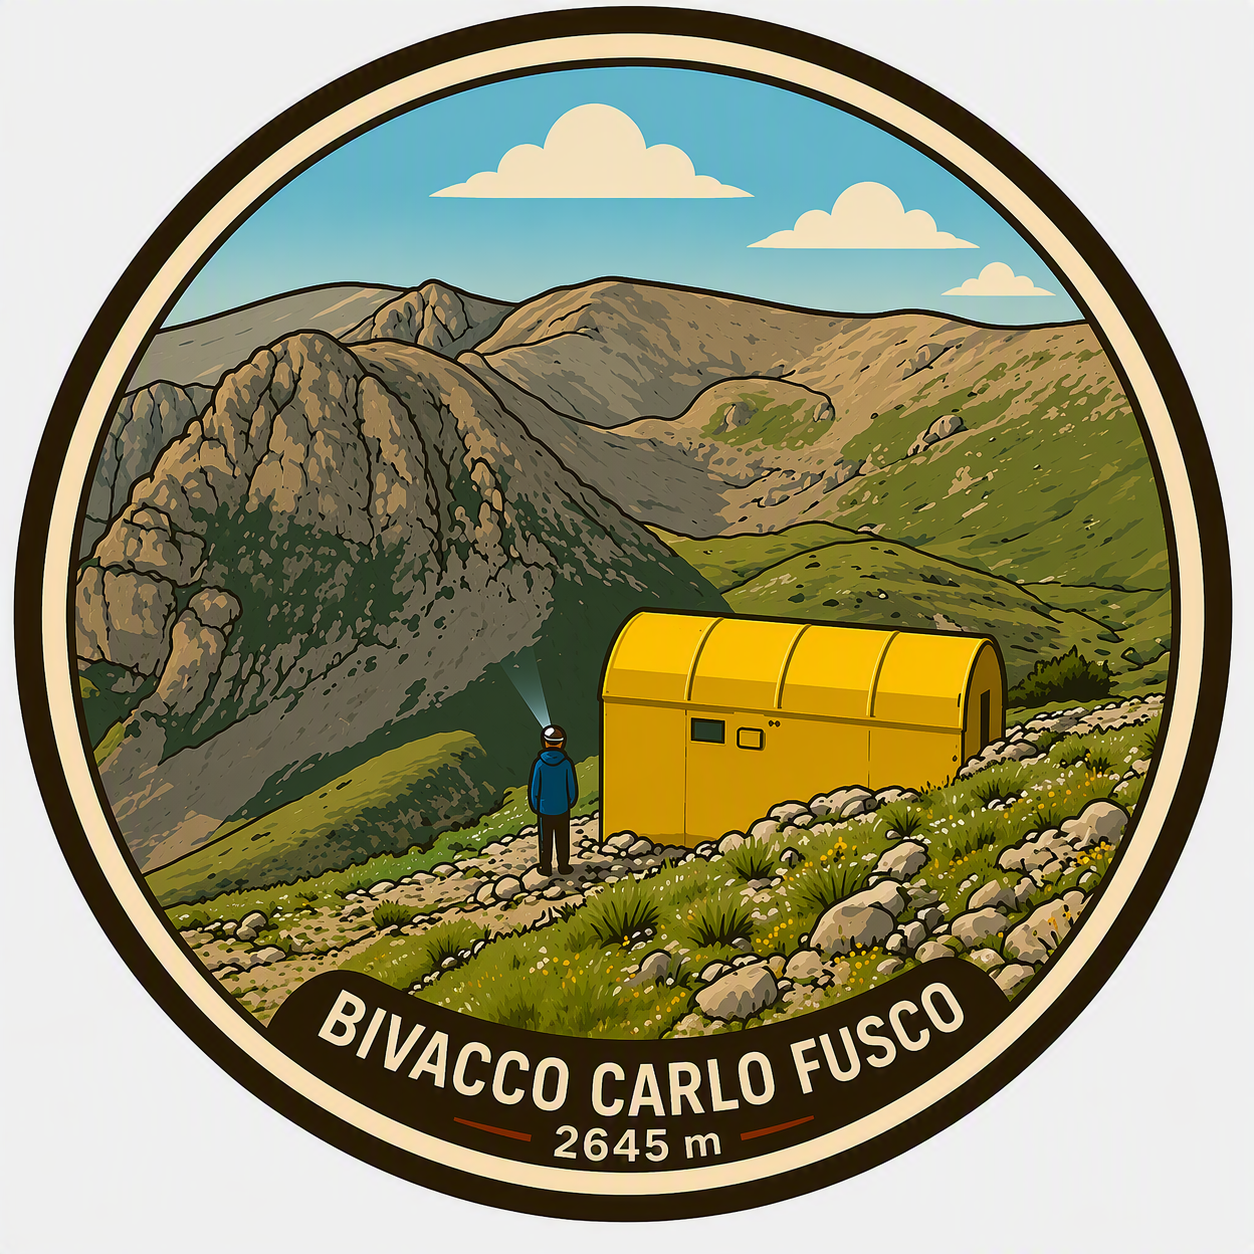
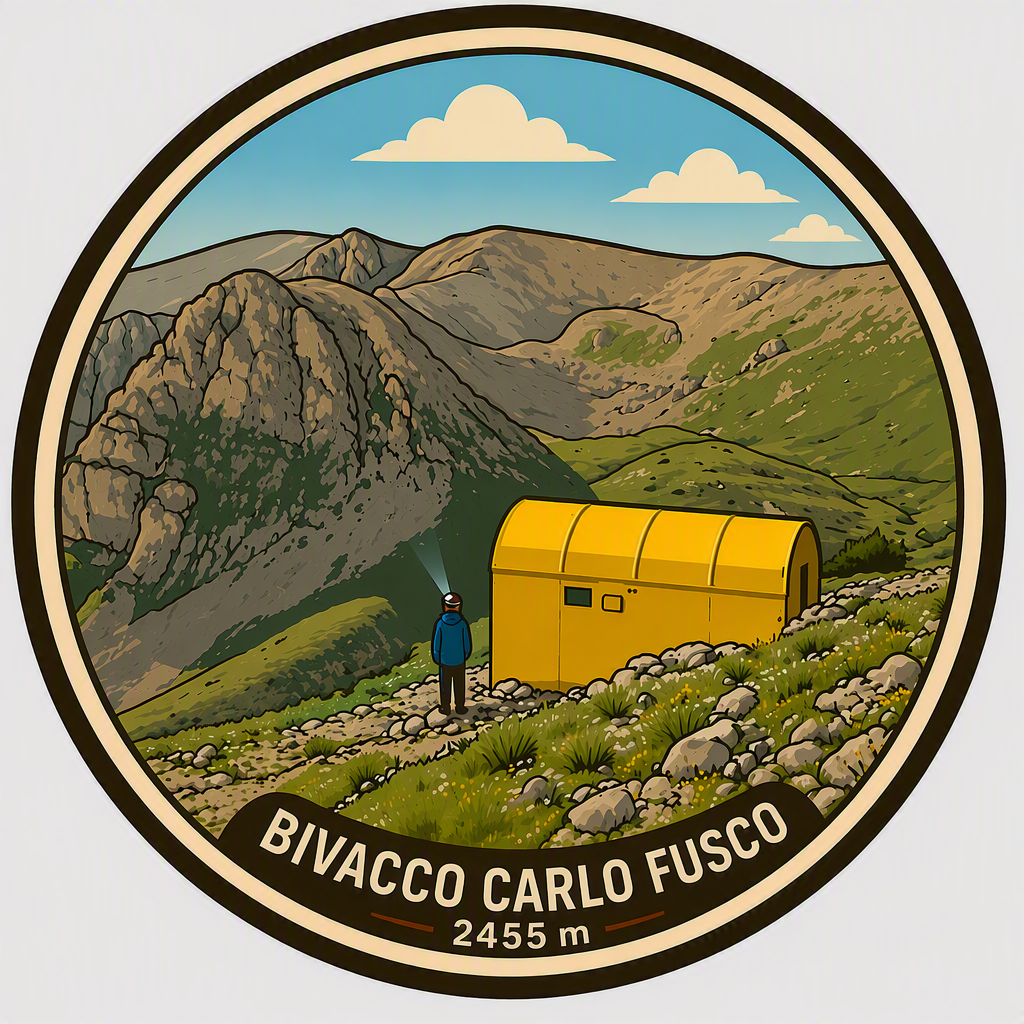
Icona Bivacco Carlo Fusco (2455 m) + coordinate Franchetti/Zilioli rifinite
Icona: il file disegnava 2645 m contro i 2455 m del catalogo (debito tecnico dal punto 104). Denis ha fornito l'icona nuova a 2455 m, coincide col catalogo; PNG verificato (firma/IEND/1024x1024) e sostituito. Debito chiuso, catalogo non toccato.

Coordinate (badge-points.js), su lettura DMS di Denis, quota invariata:
- Rifugio Franchetti 42.47711/13.56522 -> 42.47706/13.56508 (quota 2433)
- Rifugio Zilioli    42.81740/13.26850 -> 42.81731/13.26839 (quota 2250)
Spostamento ~13 m ciascuna, dentro i 150 m della soglia timbro. Erano le due
voci 'da verificare a mano' del vault. node -c OK, nessun test in prove/ le tocca.

Claude-Session: https://claude.ai/code/session_013CLoUwoE771GSXkUnPS4gu

diff --git a/public/js/badge-points.js b/public/js/badge-points.js
@@ -109,8 +109,14 @@
         // NON "correggerla" di nuovo a 2253 ricontrollando OSM: e' gia' successo il contrario
         // una volta in questo file (vedi nota in cima), qui la richiesta va nella direzione
         // opposta ed e' voluta.
-        { stampId: 'stamp_mezzeno',     nome: 'Rifugio Franchetti',       tipo: 'rifugio', quota: 2433, lat: 42.47711, lng: 13.56522, zona: 'Gran Sasso',       regione: 'Abruzzo', emoji: '🧗',  icona: 'img/badge-luoghi/rifugio-franchetti.png' },
-        { stampId: 'stamp_gnifetti',    nome: 'Rifugio Zilioli',          tipo: 'rifugio', quota: 2250, lat: 42.81740, lng: 13.26850, zona: 'Monti Sibillini',  regione: 'Marche',  emoji: '❄', icona: 'img/badge-luoghi/rifugio-zilioli.png' },
+        //
+        // Coordinate di entrambi i rifugi RIFINITE il 2026-08-28 su lettura DMS fornita da
+        // Denis (Franchetti 42°28'37.4"N 13°33'54.3"E -> 42.47706 / 13.56508; Zilioli
+        // 42°49'02.3"N 13°16'06.2"E -> 42.81731 / 13.26839): spostamento ~13 m ciascuna
+        // rispetto ai valori del 2026-07-27, ben dentro i 150 m della soglia per timbrare
+        // sia prima sia dopo. Quota NON toccata.
+        { stampId: 'stamp_mezzeno',     nome: 'Rifugio Franchetti',       tipo: 'rifugio', quota: 2433, lat: 42.47706, lng: 13.56508, zona: 'Gran Sasso',       regione: 'Abruzzo', emoji: '🧗',  icona: 'img/badge-luoghi/rifugio-franchetti.png' },
+        { stampId: 'stamp_gnifetti',    nome: 'Rifugio Zilioli',          tipo: 'rifugio', quota: 2250, lat: 42.81731, lng: 13.26839, zona: 'Monti Sibillini',  regione: 'Marche',  emoji: '❄', icona: 'img/badge-luoghi/rifugio-zilioli.png' },
         // Rifugio Bruno Pomilio TOLTO il 18/08/2026, sostituito da Denis con questo bivacco -
         // stampId nuovo (badge_fusco), non badge_pomilio riusato: sono due luoghi diversi, e
         // lo stampId e' la chiave con cui i timbri stanno sul database (vedi punto 1 in cima
